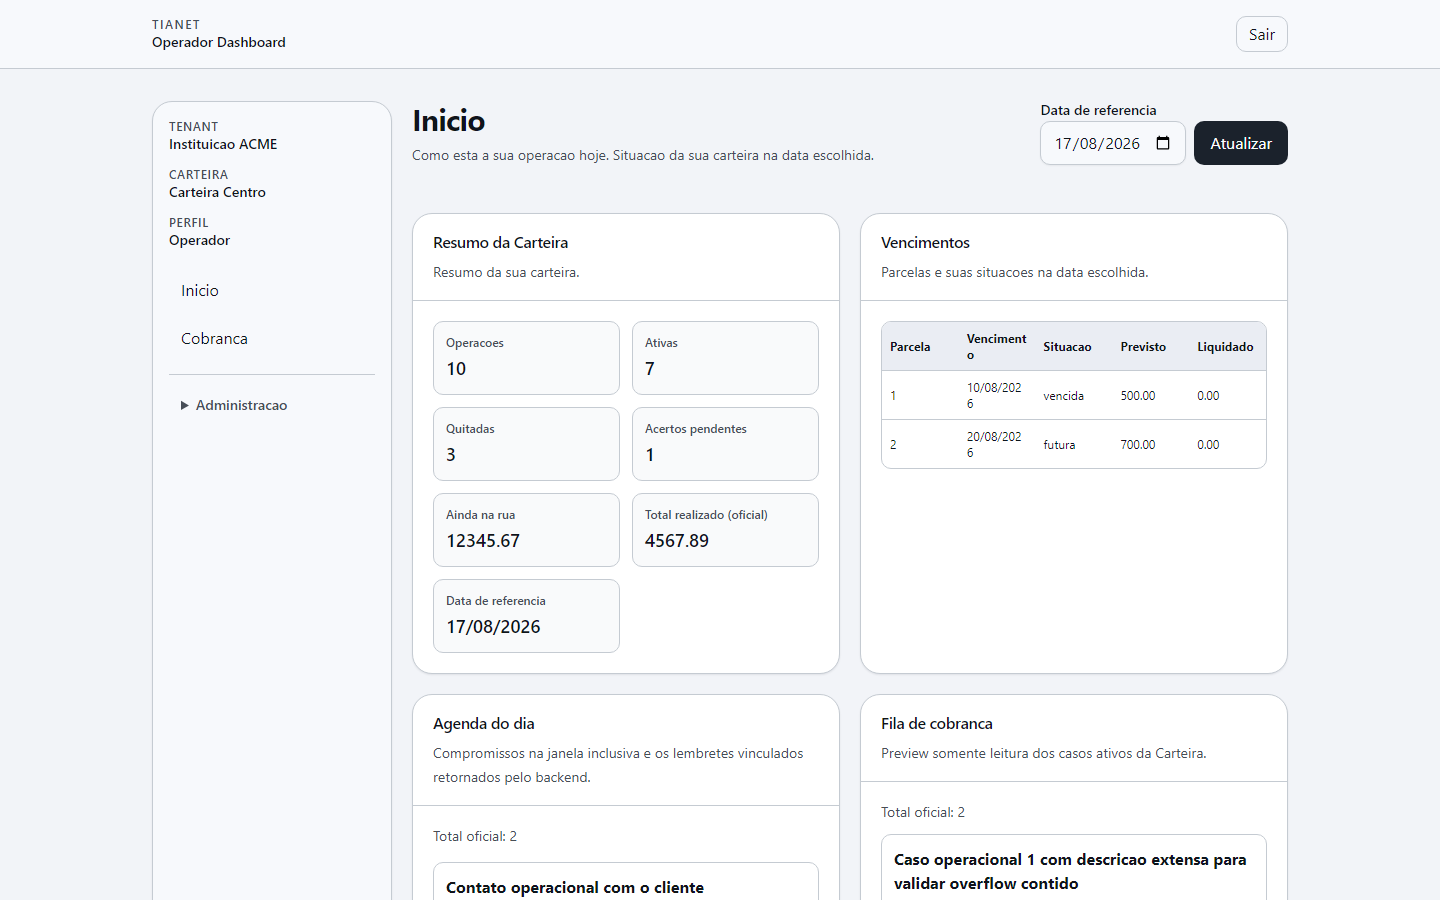
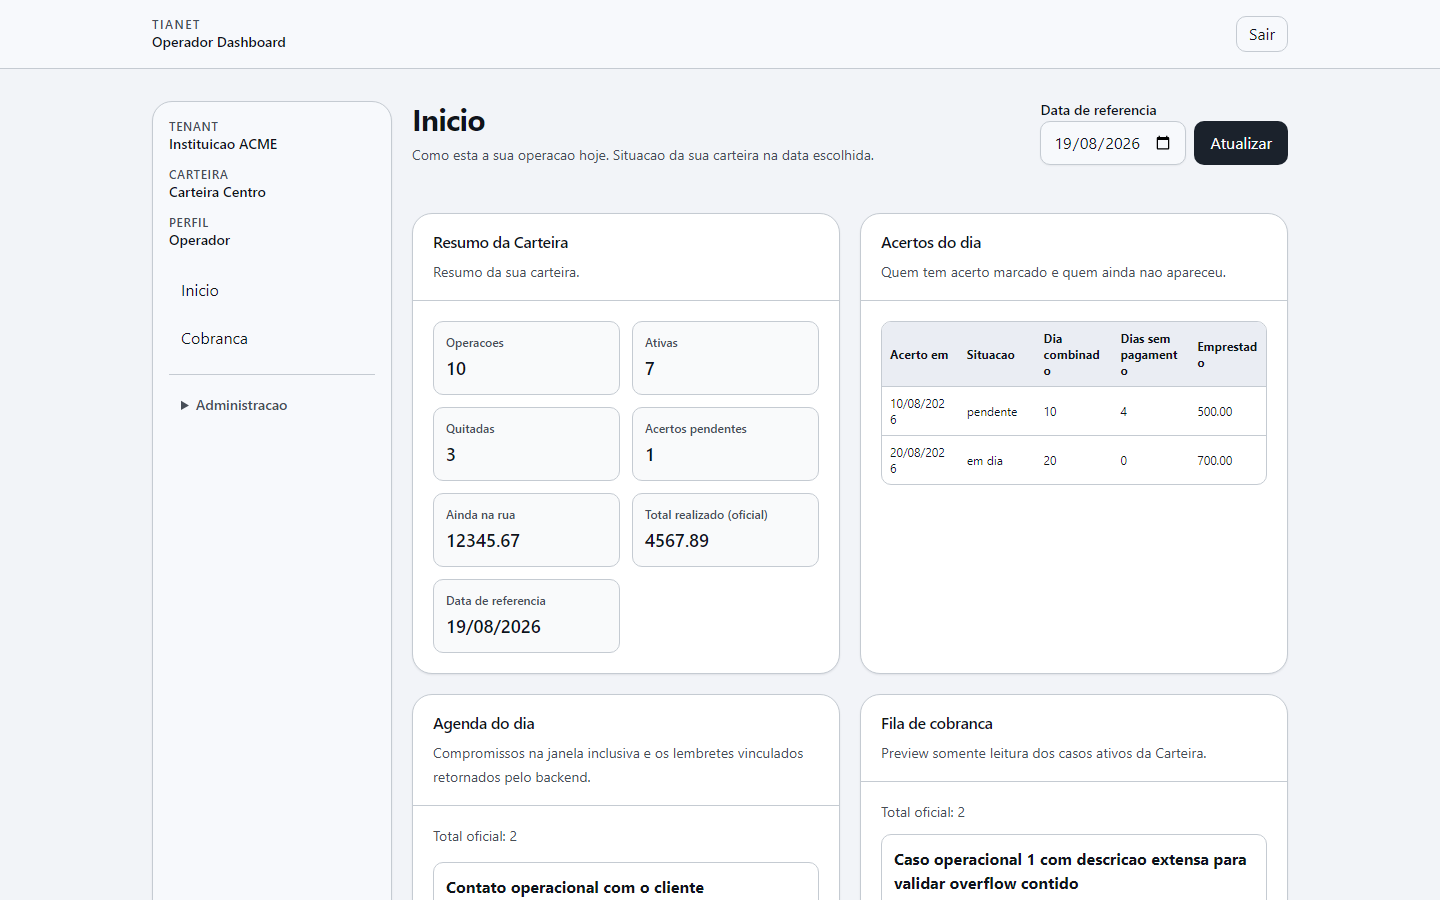
feat(relatorios): a tela de vencimentos passa a falar de acerto (IMP-327)
Os relatorios do Inicio e de Relatorios eram o ultimo lugar onde o plano
de parcelas ainda aparecia na tela. "Vencimentos" virou "Acertos do dia",
com acerto, situacao, dia combinado, dias sem pagamento e o emprestado.
"Fluxo previsto e realizado" virou "Acertos e recebimentos por dia".

Evidencia visual repinada nos relatorios IMP-290 e IMP-297. Uma captura
velha mostrando colunas removidas engana mais do que um pino refeito.

Verificado contra a stack real: login pelo BFF, `/app` e `/app/relatorios`
em 200 renderizando o emprestimo vivo com dia combinado 10, proximo
acerto em 10/09/2026 e situacao "em dia". A migracao 0017 foi aplicada ao
banco local — tabela `parcela` ausente, catalogo em 53 permissoes, e os 9
devedores, 1 emprestimo e 2 usuarios intactos.

diff --git a/frontend/src/components/relatorios/relatorios.tsx b/frontend/src/components/relatorios/relatorios.tsx
@@ -197,7 +197,7 @@ async function SummarySection({ result, recoveryHref }: Readonly<{ result: NonNu
 }
 
 async function DueDatesSection({ result, recoveryHref }: Readonly<{ result: NonNullable<ReportsProps["dueDates"]>; recoveryHref: string }>) {
-  return <SectionCard title="Vencimentos oficiais" description="Parcelas e situacoes oficiais na data de referencia."><SectionResult result={await result} recoveryHref={recoveryHref}>{(data) => <DueDatesReportView data={data} />}</SectionResult></SectionCard>;
+  return <SectionCard title="Acertos oficiais" description="Acertos e situacoes oficiais na data de referencia."><SectionResult result={await result} recoveryHref={recoveryHref}>{(data) => <DueDatesReportView data={data} />}</SectionResult></SectionCard>;
 }
 
 async function PaymentsSection({ result, recoveryHref }: Readonly<{ result: NonNullable<ReportsProps["payments"]>; recoveryHref: string }>) {
@@ -205,7 +205,7 @@ async function PaymentsSection({ result, recoveryHref }: Readonly<{ result: NonN
 }
 
 async function CashFlowSection({ result, recoveryHref }: Readonly<{ result: NonNullable<ReportsProps["cashFlow"]>; recoveryHref: string }>) {
-  return <SectionCard title="Fluxo previsto e realizado" description="Fluxo diario oficial retornado pelo backend."><SectionResult result={await result} recoveryHref={recoveryHref}>{(data) => <CashFlowReportView data={data} />}</SectionResult></SectionCard>;
+  return <SectionCard title="Acertos e recebimentos por dia" description="Fluxo diario oficial retornado pelo backend."><SectionResult result={await result} recoveryHref={recoveryHref}>{(data) => <CashFlowReportView data={data} />}</SectionResult></SectionCard>;
 }
 
 function Filters({ period }: Readonly<{ period?: ReportsPeriod }>) {
@@ -246,9 +246,9 @@ export function Relatorios({ periodState, recoveryHref, summary, dueDates, payme
       {ready && summary && dueDates && payments && cashFlow && (
         <div className="grid min-w-0 gap-5 xl:grid-cols-2">
           <Suspense fallback={<ReportsLoadingState title="Resumo oficial" />}><SummarySection recoveryHref={recoveryHref} result={summary} /></Suspense>
-          <Suspense fallback={<ReportsLoadingState title="Vencimentos oficiais" />}><DueDatesSection recoveryHref={recoveryHref} result={dueDates} /></Suspense>
+          <Suspense fallback={<ReportsLoadingState title="Acertos oficiais" />}><DueDatesSection recoveryHref={recoveryHref} result={dueDates} /></Suspense>
           <Suspense fallback={<ReportsLoadingState title="Pagamentos oficiais" />}><PaymentsSection recoveryHref={recoveryHref} result={payments} /></Suspense>
-          <Suspense fallback={<ReportsLoadingState title="Fluxo previsto e realizado" />}><CashFlowSection recoveryHref={recoveryHref} result={cashFlow} /></Suspense>
+          <Suspense fallback={<ReportsLoadingState title="Acertos e recebimentos por dia" />}><CashFlowSection recoveryHref={recoveryHref} result={cashFlow} /></Suspense>
         </div>
       )}
     </div>

diff --git a/frontend/tests/dashboard-e2e/dashboard.spec.ts b/frontend/tests/dashboard-e2e/dashboard.spec.ts
@@ -28,7 +28,7 @@ test("login compoe o Dashboard completo sem expor token ou backend ao browser", 
   await expect(page).toHaveURL(/\/app\?data_referencia=\d{4}-\d{2}-\d{2}$/);
   await expect(page.getByRole("heading", { name: "Inicio" })).toBeVisible();
   await expect(page.getByText("12345.67")).toBeVisible();
-  await expect(page.locator("dd:visible, td:visible").filter({ hasText: /^vencida$/ }).first()).toBeVisible();
+  await expect(page.locator("dd:visible, td:visible").filter({ hasText: /^pendente$/ }).first()).toBeVisible();
   await expect(page.getByText("Contato operacional com o cliente")).toBeVisible();
   await expect(page.getByText("Caso operacional 1 com descricao extensa para validar overflow contido")).toBeVisible();
   await assertNoToken(page, context);
@@ -55,7 +55,7 @@ test("distingue loading, empty e periodo invalido antes de consultar dados", asy
   await expect(page.getByText("12345.67")).toBeVisible();
   await page.getByRole("button", { name: "Sair" }).click();
   await login(page, "VAZIO");
-  await expect(page.getByText(/Nenhum vencimento/)).toBeVisible();
+  await expect(page.getByText(/Nenhum acerto/)).toBeVisible();
   await expect(page.getByText(/Nenhum compromisso/)).toBeVisible();
   await expect(page.getByText(/Nenhum caso ativo/)).toBeVisible();
   await page.goto("/app?data_referencia=2026-02-30");
@@ -66,7 +66,7 @@ test("isola falhas por secao, preserva 404 neutro e captura estados dark", async
   await login(page, "ESTADOS");
   await expect(page.getByText("Nao foi possivel carregar")).toHaveCount(2);
   await expect(page.getByText(/Correlation ID:/)).toHaveCount(2);
-  await expect(page.getByText(/Nenhum vencimento/)).toBeVisible();
+  await expect(page.getByText(/Nenhum acerto/)).toBeVisible();
   await expect(page.getByText("Sem permissao")).toHaveCount(0);
   await expect(page.getByText(/stack secreta|regra interna/)).toHaveCount(0);
   await page.evaluate(() => document.documentElement.classList.add("dark"));

diff --git a/frontend/src/components/dashboard/dashboard.tsx b/frontend/src/components/dashboard/dashboard.tsx
@@ -163,7 +163,7 @@ async function SummarySection({ result, recoveryHref }: Readonly<{ result: Dashb
 }
 
 async function DueDatesSection({ result, recoveryHref }: Readonly<{ result: DashboardProps["dueDates"]; recoveryHref: string }>) {
-  return <SectionCard title="Vencimentos" description="Parcelas e suas situacoes na data escolhida."><SectionResult result={await result} recoveryHref={recoveryHref}>{(data) => <DueDatesView data={data} />}</SectionResult></SectionCard>;
+  return <SectionCard title="Acertos do dia" description="Quem tem acerto marcado e quem ainda nao apareceu."><SectionResult result={await result} recoveryHref={recoveryHref}>{(data) => <DueDatesView data={data} />}</SectionResult></SectionCard>;
 }
 
 async function AgendaSection({ result, recoveryHref }: Readonly<{ result: DashboardProps["agenda"]; recoveryHref: string }>) {
@@ -191,7 +191,7 @@ export function Dashboard({ period, recoveryHref, summary, dueDates, agenda, col
       <p className="text-xs text-muted-foreground"></p>
       <div className="grid min-w-0 gap-5 xl:grid-cols-2">
         <Suspense fallback={<DashboardLoadingState title="Resumo da Carteira" />}><SummarySection recoveryHref={recoveryHref} result={summary} /></Suspense>
-        <Suspense fallback={<DashboardLoadingState title="Vencimentos" />}><DueDatesSection recoveryHref={recoveryHref} result={dueDates} /></Suspense>
+        <Suspense fallback={<DashboardLoadingState title="Acertos do dia" />}><DueDatesSection recoveryHref={recoveryHref} result={dueDates} /></Suspense>
         <Suspense fallback={<DashboardLoadingState title="Agenda do dia" />}><AgendaSection recoveryHref={recoveryHref} result={agenda} /></Suspense>
         <Suspense fallback={<DashboardLoadingState title="Fila de cobranca" />}><CollectionSection recoveryHref={recoveryHref} result={collection} /></Suspense>
       </div>

diff --git a/frontend/tests/relatorios-e2e/relatorios.spec.ts b/frontend/tests/relatorios-e2e/relatorios.spec.ts
@@ -42,7 +42,7 @@ test("renderiza Relatorios oficiais e captura desktop/mobile", async ({ page }, 
   await login(page, "ACME");
   await gotoRelatorios(page);
   await expect(page.getByText("98765.43")).toBeVisible();
-  await expect(page.getByRole("region", { name: "Vencimentos oficiais" })).toBeVisible();
+  await expect(page.getByRole("region", { name: "Acertos oficiais" })).toBeVisible();
   await expect(page.getByRole("region", { name: "Pagamentos oficiais" })).toBeVisible();
   expect(backendHits).toEqual([]);
   await page.getByText("98765.43").scrollIntoViewIfNeeded();
@@ -53,10 +53,10 @@ test("renderiza Relatorios oficiais e captura desktop/mobile", async ({ page }, 
 test("observa fluxo oficial, overflow e captura desktop", async ({ page }, testInfo) => {
   await login(page, "ACME");
   await gotoRelatorios(page);
-  await page.getByRole("region", { name: "Fluxo previsto e realizado" }).focus();
-  await expect(page.getByRole("region", { name: "Fluxo previsto e realizado" })).toBeFocused();
+  await page.getByRole("region", { name: "Acertos e recebimentos por dia" }).focus();
+  await expect(page.getByRole("region", { name: "Acertos e recebimentos por dia" })).toBeFocused();
   expect(await page.evaluate(() => document.documentElement.scrollWidth - document.documentElement.clientWidth)).toBeLessThanOrEqual(0);
-  await page.getByRole("region", { name: "Fluxo previsto e realizado" }).scrollIntoViewIfNeeded();
+  await page.getByRole("region", { name: "Acertos e recebimentos por dia" }).scrollIntoViewIfNeeded();
   if (testInfo.project.name.includes("desktop")) await screenshotEvidence(page, "fluxo-desktop");
 });
 

diff --git a/scripts/tests/test-plan-025-contracts.js b/scripts/tests/test-plan-025-contracts.js
@@ -2409,7 +2409,7 @@ const contracts = {
     assert.doesNotMatch(source.loader + source.policy + source.component, /\.reduce\(|parseFloat\(|parseInt\(|Math\.(?:round|floor|ceil)|Intl\.NumberFormat|toFixed\(|\+\s*(?:saldo|total|valor|previsto|realizado)|(?:saldo|total|valor|previsto|realizado)\s*\+/, 'Relatorios nao calcula financeiro localmente');
     assert.doesNotMatch(source.component, /\.(?:operacoes_quitadas|parcela_ids|pagamento_ids)\.length\b/, 'Relatorios nao deriva contagens locais de arrays oficiais');
     assert.doesNotMatch(source.component + source.page + source.loader, /\/app\/(?:configuracoes|iam|automacao)\b|\/credit\/(?:configuracoes-financeiras|automacao|notificacoes\/templates)\b/i, 'Relatorios nao antecipa Configuracoes/IAM/Automacao');
-    for (const marker of ['loading', 'empty', 'denied', '400', '403', '404', '500', 'overflow', 'Resumo oficial', 'Pagamentos oficiais', 'Fluxo previsto e realizado']) {
+    for (const marker of ['loading', 'empty', 'denied', '400', '403', '404', '500', 'overflow', 'Resumo oficial', 'Pagamentos oficiais', 'Acertos e recebimentos por dia']) {
       assertText(source.component + source.componentTest + source.e2eTest + source.loading, marker, `estado Relatorios ${marker}`);
     }
     assertText(source.component, 'Dados de relatorio nao encontrados ou indisponiveis.', 'UI Relatorios preserva 404 neutro');

diff --git a/docs/audits/reports/frontend-mvp-imp-290-dashboard-report-2026-08-13.md b/docs/audits/reports/frontend-mvp-imp-290-dashboard-report-2026-08-13.md
@@ -86,10 +86,10 @@ Capturas reais do build de producao, sem indicador de dev:
 
 | Evidencia | Dimensoes | SHA-256 |
 |---|---:|---|
[8 lines of base64/hex data omitted]
 
 O fluxo suporta o objetivo do operador: contexto Tenant/Carteira visivel,
 seletor temporal canonico, hierarquia das quatro secoes e falha parcial sem
@@ -182,3 +182,17 @@ cliente gerado, dependencia ou lockfile foi alterado pelo IMP-290.
 O IMP-290 esta tecnicamente concluido, mas **o IMP-291 continua bloqueado**.
 Executar `$fable:fable-judge` focal sobre este pacote antes de autorizar
 Devedores.
+
+---
+
+## 9. Repino de evidencia visual (IMP-327, DR-004)
+
+As quatro capturas do Inicio foram regravadas em 2026-08-19. O plano de parcelas saiu do
+contrato pela DR-004 e o cartao de vencimentos do Inicio passou a mostrar o acerto: data do
+acerto, situacao, dia combinado, dias sem pagamento e o emprestado. O fluxo
+diario trocou `previsto` — que so podia vir do plano — pela contagem de acertos
+do dia.
+
+Os SHA-256 publicados acima acompanham os bytes vigentes. Manter os hashes
+antigos preservaria imagens de colunas que nao existem mais, e uma evidencia que
+mostra tela removida engana mais do que um pino que precisou ser refeito.

diff --git a/docs/audits/reports/frontend-mvp-imp-297-relatorios-report-2026-08-14.md b/docs/audits/reports/frontend-mvp-imp-297-relatorios-report-2026-08-14.md
@@ -70,10 +70,10 @@ de chegar ao browser.
 
 | Evidencia | Dimensao | SHA-256 |
 |---|---:|---|
[8 lines of base64/hex data omitted]
 
 ## 5. Arquivos alterados/criados
 
@@ -133,3 +133,17 @@ Arquivos novos:
 
 O IMP-298 permanece Planejado. Recomenda-se executar `fable:fable-judge` focal
 do IMP-297 antes de autorizar Configuracoes Financeiras.
+
+---
+
+## 8. Repino de evidencia visual (IMP-327, DR-004)
+
+As quatro capturas foram regravadas em 2026-08-19. O plano de parcelas saiu do
+contrato pela DR-004 e a tela de vencimentos passou a mostrar o acerto: data do
+acerto, situacao, dia combinado, dias sem pagamento e o emprestado. O fluxo
+diario trocou `previsto` — que so podia vir do plano — pela contagem de acertos
+do dia.
+
+Os SHA-256 publicados acima acompanham os bytes vigentes. Manter os hashes
+antigos preservaria imagens de colunas que nao existem mais, e uma evidencia que
+mostra tela removida engana mais do que um pino que precisou ser refeito.
